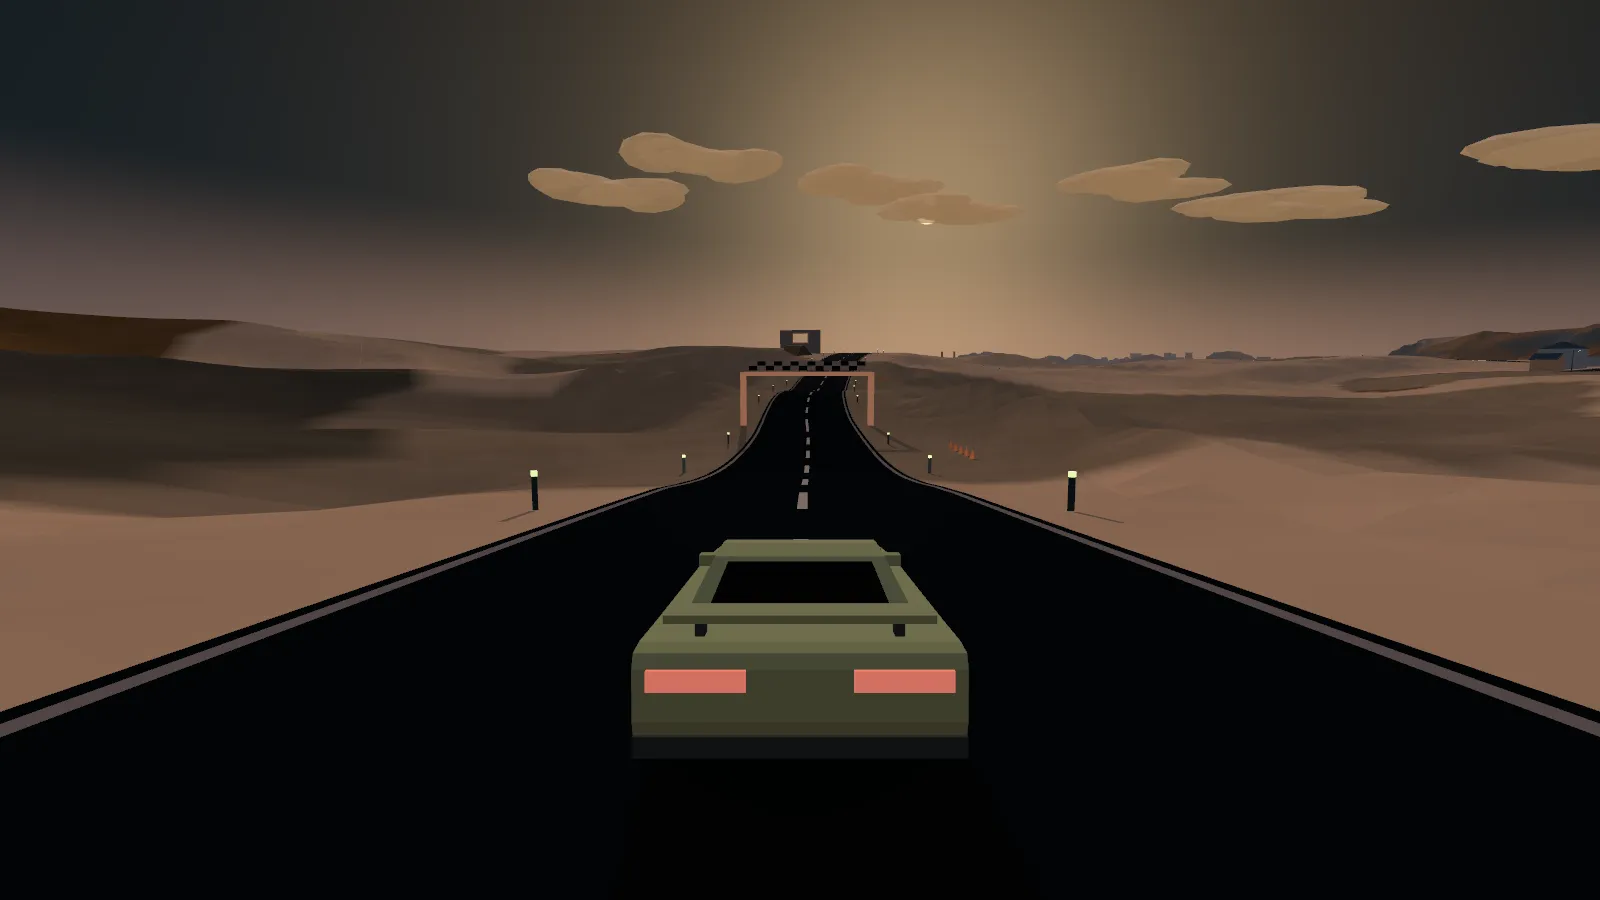
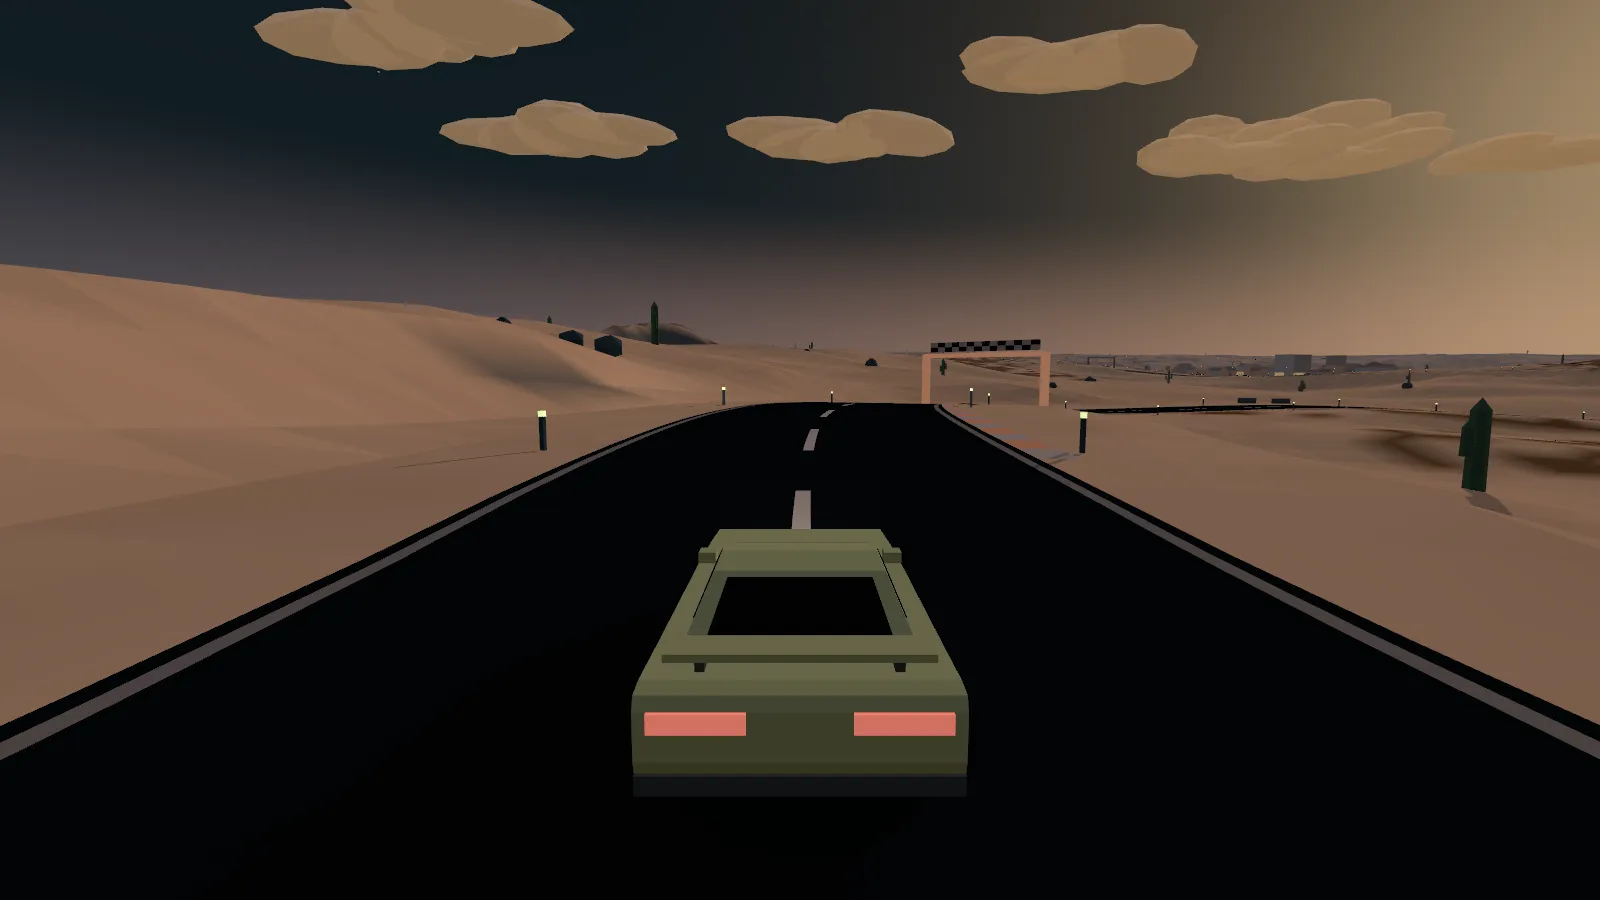
feat: desert props, dry outpost yards and frayed ground patches
- Recipe scatter rules strew cacti, boulders and hoodoo spires on open ground; landmark-mesh draws them in tree-crown green and rock tones, with circle solids
- Towns recipe `trees` knob: desert gardens and house yards get a water tank and boulders instead of trees
- Ground rules gain `soft`: desert hardpack frays into sand instead of a hard camouflage edge; fewer tones per biome
- Desert golden regenerated; island and sky goldens unchanged; menu images re-shot on seed 1

diff --git a/src/worldgen/recipe.ts b/src/worldgen/recipe.ts
@@ -1,5 +1,5 @@
 import type { Biome, TreeRule } from "./biomes";
-import { Ground, type ItemKind } from "./types";
+import { Ground, PropKind, type ItemKind } from "./types";
 
 export interface TerrainRecipe {
   /** Distance from the centre where the land meets `edge`, metres. */
@@ -16,11 +16,20 @@ export interface TerrainRecipe {
   mesas: { base: number; step: number; riser: number } | null;
 }
 
-/** A biome's ground row: `above` where its patch noise passes `cut`, else `below`. */
+/** A biome's ground row: `above` where its patch noise passes `cut`, else `below`; `soft` dithers the cut that wide. */
 export interface GroundRule {
   cut: number;
   above: Ground;
   below: Ground;
+  soft: number;
+}
+
+/** Props strewn over open ground: one at most per `spacing` cell, on `odds` of the cells in `biomes`. */
+export interface ScatterRule {
+  kind: PropKind;
+  spacing: number;
+  odds: number;
+  biomes: readonly Biome[];
 }
 
 export interface BiomeRecipe {
@@ -42,6 +51,8 @@ export interface RoadRecipe {
 export interface TownRecipe {
   min: number;
   max: number;
+  /** Gardens and house yards get trees; false gives them a water tank and boulders instead. */
+  trees: boolean;
   /** Street block size: min plus up to span, metres. */
   block: { min: number; span: number };
 }
@@ -56,6 +67,7 @@ export interface Recipe {
   road: RoadRecipe;
   towns: TownRecipe;
   landmarks: readonly Landmark[];
+  scatter: readonly ScatterRule[];
 }
 
 export const ISLAND: Recipe = {
@@ -69,18 +81,21 @@ export const ISLAND: Recipe = {
     },
     items: { coast: "log", meadow: "hay", forest: "log", upland: "rock" },
     ground: {
-      coast: { cut: 0.55, above: Ground.SAND, below: Ground.DUNE },
-      meadow: { cut: 0.55, above: Ground.DRY, below: Ground.GRASS },
-      forest: { cut: 0.6, above: Ground.GRASS, below: Ground.FOREST },
-      upland: { cut: 0.5, above: Ground.DRY, below: Ground.UPLAND },
+      coast: { cut: 0.55, above: Ground.SAND, below: Ground.DUNE, soft: 0 },
+      meadow: { cut: 0.55, above: Ground.DRY, below: Ground.GRASS, soft: 0 },
+      forest: { cut: 0.6, above: Ground.GRASS, below: Ground.FOREST, soft: 0 },
+      upland: { cut: 0.5, above: Ground.DRY, below: Ground.UPLAND, soft: 0 },
     },
   },
   road: { loop: { radius: 620, swing: 640, min: 380, max: 860 }, stacks: [4, 2], canyon: { outlet: 2 }, kickers: { road: 4, total: 12, big: 3 } },
-  towns: { min: 3, max: 6, block: { min: 45, span: 25 } },
+  towns: { min: 3, max: 6, trees: true, block: { min: 45, span: 25 } },
   landmarks: [Landmark.MAST, Landmark.LIGHTHOUSE, Landmark.TURBINES, Landmark.ARCH],
+  scatter: [],
 };
 
 const BARE = { start: 1, fill: 0, pine: 0, scrub: 0, extra: 0 };
+/** Dither width of the desert's patch edges, so hardpack frays into sand instead of a hard camouflage line. */
+const SOFT = 0.3;
 
 /** Sand, hardpack and terraced mesas inside a dune wall: low hills, no trees, a few outposts. */
 export const DESERT: Recipe = {
@@ -97,13 +112,18 @@ export const DESERT: Recipe = {
     rules: { coast: BARE, meadow: BARE, forest: BARE, upland: BARE },
     items: { coast: "rock", meadow: "rock", forest: null, upland: "rock" },
     ground: {
-      coast: { cut: 0.55, above: Ground.SAND, below: Ground.DUNE },
-      meadow: { cut: 0.45, above: Ground.DIRT, below: Ground.DUNE },
-      forest: { cut: 0.6, above: Ground.DUNE, below: Ground.SAND },
-      upland: { cut: 0.5, above: Ground.UPLAND, below: Ground.DIRT },
+      coast: { cut: 0.55, above: Ground.SAND, below: Ground.SAND, soft: 0 },
+      meadow: { cut: 0.55, above: Ground.DIRT, below: Ground.SAND, soft: SOFT },
+      forest: { cut: 0.6, above: Ground.DUNE, below: Ground.SAND, soft: SOFT },
+      upland: { cut: 0.5, above: Ground.UPLAND, below: Ground.DUNE, soft: SOFT },
     },
   },
   road: { loop: { radius: 650, swing: 500, min: 420, max: 850 }, stacks: [], canyon: { outlet: 24 }, kickers: { road: 4, total: 16, big: 4 } },
-  towns: { min: 1, max: 3, block: { min: 35, span: 15 } },
+  towns: { min: 1, max: 3, trees: false, block: { min: 35, span: 15 } },
   landmarks: [Landmark.ARCH, Landmark.MAST, Landmark.TURBINES],
+  scatter: [
+    { kind: PropKind.CACTUS, spacing: 30, odds: 0.08, biomes: ["meadow", "upland"] },
+    { kind: PropKind.BOULDER, spacing: 44, odds: 0.1, biomes: ["meadow", "forest", "upland"] },
+    { kind: PropKind.SPIRE, spacing: 130, odds: 0.18, biomes: ["upland"] },
+  ],
 };

diff --git a/src/worldgen/landmark-mesh.ts b/src/worldgen/landmark-mesh.ts
@@ -10,6 +10,8 @@ export interface LandmarkTones {
   cap: Rgb;
   stone: Rgb;
   stone_shade: Rgb;
+  plant: Rgb;
+  plant_shade: Rgb;
 }
 
 const MAST_BANDS = 6;
@@ -135,6 +137,41 @@ function arch(out: Builder, prop: Prop, heights: Float32Array, t: LandmarkTones)
   slab(out, -reach * 0.55, reach * 0.4, ARCH_LEG * 0.8, top, top + 1.1, t.stone_shade, t.stone);
 }
 
+// Drawn to SCATTER_SHAPE (scatter.ts) at scale 1: a saguaro of tree-crown green with one or two arms.
+function cactus(out: Builder, s: number, roll: number, t: LandmarkTones) {
+  const limb = (cx: number, y0: number, y1: number, r: number) => {
+    prism(out, 6, r, r * 0.9, y0, y1, t.plant, 0, t.plant_shade, cx, 0);
+    prism(out, 6, r * 0.9, 0, y1, y1 + r * 1.4, t.plant, 0, t.plant_shade, cx, 0);
+  };
+  limb(0, -0.5, 3.9 * s, 0.45 * s);
+  slab(out, 0.3 * s, 0.95 * s, 0.26 * s, 1.7 * s, 2.2 * s, t.plant, t.plant_shade);
+  limb(0.95 * s, 1.7 * s, 3.1 * s, 0.3 * s);
+  if (roll < 0.5) return;
+  slab(out, -0.95 * s, -0.3 * s, 0.24 * s, 1.2 * s, 1.65 * s, t.plant, t.plant_shade);
+  limb(-0.95 * s, 1.2 * s, 2.4 * s, 0.27 * s);
+}
+
+function boulder(out: Builder, s: number, roll: number, t: LandmarkTones) {
+  prism(out, 6, 1.6 * s, 1.05 * s, -0.4, 1.0 * s, t.stone, roll * Math.PI, t.stone_shade);
+  prism(out, 5, 1.05 * s, 0.35 * s, 1.0 * s, 1.5 * s, t.stone_shade, roll * Math.PI, t.stone);
+  prism(out, 5, 0.7 * s, 0.3 * s, -0.3, 0.8 * s, t.stone_shade, roll * 5, t.stone, 1.5 * s, 0.4 * s);
+}
+
+// A hoodoo: a tapering column of alternating stone bands under a wider cap rock.
+function spire(out: Builder, s: number, roll: number, t: LandmarkTones) {
+  const phase = roll * Math.PI;
+  prism(out, 6, 2.4 * s, 1.7 * s, -1, 5 * s, t.stone, phase, t.stone_shade);
+  prism(out, 6, 1.7 * s, 1.1 * s, 5 * s, 10 * s, t.stone_shade, phase, t.stone);
+  prism(out, 5, 1.1 * s, 0.8 * s, 10 * s, 11.6 * s, t.stone, phase);
+  prism(out, 6, 1.7 * s, 1.4 * s, 11.6 * s, 13 * s, t.stone_shade, phase + 0.4, t.stone);
+}
+
+function tank(out: Builder, t: LandmarkTones) {
+  for (const [cx, cz] of [[-1, -1], [1, -1], [-1, 1], [1, 1]]) prism(out, 4, 0.14, 0.14, -0.5, 3.3, t.cap, Math.PI / 4, undefined, cx, cz);
+  prism(out, 8, 1.8, 1.8, 3.2, 5.6, t.pale, Math.PI / 8, t.band);
+  prism(out, 8, 1.95, 0, 5.6, 6.4, t.band, Math.PI / 8);
+}
+
 export function landmark_mesh(out: Builder, prop: Prop, heights: Float32Array, tones: LandmarkTones) {
   const [fx, fz] = forward(prop);
   out.at({ x: prop.x, y: prop.y, z: prop.z, fx, fz });
@@ -142,4 +179,8 @@ export function landmark_mesh(out: Builder, prop: Prop, heights: Float32Array, t
   else if (prop.kind === PropKind.LIGHTHOUSE) lighthouse(out, tones);
   else if (prop.kind === PropKind.TURBINE) turbine(out, tones);
   else if (prop.kind === PropKind.ARCH) arch(out, prop, heights, tones);
+  else if (prop.kind === PropKind.CACTUS) cactus(out, prop.scale, prop.angle / (Math.PI * 2), tones);
+  else if (prop.kind === PropKind.BOULDER) boulder(out, prop.scale, prop.angle, tones);
+  else if (prop.kind === PropKind.SPIRE) spire(out, prop.scale, prop.angle, tones);
+  else if (prop.kind === PropKind.TANK) tank(out, tones);
 }

diff --git a/src/worldgen/scatter.ts b/src/worldgen/scatter.ts
@@ -1,0 +1,54 @@
+import { biome_at, type BiomeCuts } from "./biomes";
+import { sample, up } from "./field";
+import { hash } from "./noise";
+import type { ScatterRule } from "./recipe";
+import { DIRT, ORIGIN, ROAD_HALF, PropKind, type Prop, type Solid, type Terrain } from "./types";
+
+/** Footprint radius and height of each strewn prop at scale 1, metres; the mesh in landmark-mesh.ts is drawn to them. */
+export const SCATTER_SHAPE: Partial<Record<PropKind, { radius: number; height: number }>> = {
+  [PropKind.CACTUS]: { radius: 0.45, height: 4.6 },
+  [PropKind.BOULDER]: { radius: 1.6, height: 1.5 },
+  [PropKind.SPIRE]: { radius: 2.4, height: 13 },
+  [PropKind.TANK]: { radius: 1.8, height: 6.4 },
+};
+
+const ROAD_CLEAR = ROAD_HALF + 8;
+const FLAT = 0.85;
+const SCALE = [0.75, 1.3];
+
+export function prop_solid(prop: Prop): Solid {
+  const shape = SCATTER_SHAPE[prop.kind] ?? { radius: 1, height: 1 };
+  return { kind: "circle", x: prop.x, y: prop.y, z: prop.z, radius: shape.radius * prop.scale, height: shape.height * prop.scale };
+}
+
+export interface Scattered {
+  props: Prop[];
+  solids: Solid[];
+}
+
+/** `free` rules out ground taken by lots, towns, jumps and landmarks, as for trees. */
+export function scatter(cuts: BiomeCuts, land: Terrain, rules: readonly ScatterRule[], free: (x: number, z: number) => boolean): Scattered {
+  const { heights, road_dist, surface } = land;
+  const out: Scattered = { props: [], solids: [] };
+  rules.forEach((rule, r) => {
+    const seed = cuts.seed + 300 + r * 8;
+    const limit = -ORIGIN - rule.spacing;
+    for (let z = ORIGIN + rule.spacing; z < limit; z += rule.spacing)
+      for (let x = ORIGIN + rule.spacing; x < limit; x += rule.spacing) {
+        if (hash(x, z, seed) >= rule.odds) continue;
+        const px = x + (hash(x, z, seed + 1) - 0.5) * rule.spacing * 0.8;
+        const pz = z + (hash(x, z, seed + 2) - 0.5) * rule.spacing * 0.8;
+        const y = sample(heights, px, pz);
+        if (!rule.biomes.includes(biome_at(cuts, px, pz, y))) continue;
+        if (sample(road_dist, px, pz) < ROAD_CLEAR || up(heights, px, pz) < FLAT || !free(px, pz)) continue;
+        const i = Math.round((px - ORIGIN) / land.cell);
+        const j = Math.round((pz - ORIGIN) / land.cell);
+        if (surface[j * (land.n + 1) + i] === DIRT) continue;
+        const roll = hash(x, z, seed + 3);
+        const prop: Prop = { x: px, y, z: pz, angle: hash(x, z, seed + 4) * Math.PI * 2, kind: rule.kind, scale: SCALE[0] + roll * (SCALE[1] - SCALE[0]) };
+        out.props.push(prop);
+        out.solids.push(prop_solid(prop));
+      }
+  });
+  return out;
+}

diff --git a/src/worldgen/lots.ts b/src/worldgen/lots.ts
@@ -1,5 +1,7 @@
 import { cell_range, sample, vertex } from "./field";
 import { hash, length } from "./noise";
+import type { TownRecipe } from "./recipe";
+import { prop_solid } from "./scatter";
 import type { Stamp } from "./stamp";
 import {
   CELL,
@@ -85,6 +87,7 @@ export class Lots {
     private readonly seed: number,
     private readonly terrain: Terrain,
     private readonly stamp: Stamp,
+    private readonly shape: TownRecipe,
   ) {
     this.occupied = new Uint8Array(terrain.heights.length);
   }
@@ -181,12 +184,20 @@ export class Lots {
     this.out.solids.push({ kind: "circle", x, y, z, radius: TREE_RADIUS * scale, height: TREE_HEIGHT * scale });
   }
 
+  // A dry yard: the first spot holds the water tank, the rest boulders.
+  private yard(x: number, z: number, roll: number, first: boolean) {
+    const prop: Prop = { x, y: sample(this.terrain.heights, x, z), z, angle: roll * Math.PI * 2, kind: first ? PropKind.TANK : PropKind.BOULDER, scale: first ? 1 : 0.5 + roll * 0.4 };
+    this.out.props.push(prop);
+    this.out.solids.push(prop_solid(prop));
+  }
+
   private garden(lot: Lot, count: number) {
     for (let i = 0; i < count; i++) {
       const lx = (hash(lot.id, i, this.seed + 71) - 0.5) * (lot.w - 5);
       const lz = (hash(lot.id, i, this.seed + 72) - 0.5) * (lot.d - 5);
       const [x, z] = local_to_world(lot, lx, lz);
-      this.tree(x, z, hash(lot.id, i, this.seed + 73));
+      if (this.shape.trees) this.tree(x, z, hash(lot.id, i, this.seed + 73));
+      else this.yard(x, z, hash(lot.id, i, this.seed + 73), i === 0);
     }
   }
 
@@ -219,7 +230,8 @@ export class Lots {
     const yard = front - hd + lot.d / 2;
     if (!shop && yard > 5 && hash(lot.id, 1, this.seed + 74) < 0.6) {
       const [tx, tz] = local_to_world(lot, (hash(lot.id, 2, this.seed + 74) - 0.5) * (lot.w - 4), -lot.d / 2 + yard / 2);
-      this.tree(tx, tz, hash(lot.id, 3, this.seed + 74));
+      if (this.shape.trees) this.tree(tx, tz, hash(lot.id, 3, this.seed + 74));
+      else this.yard(tx, tz, hash(lot.id, 3, this.seed + 74), false);
     }
   }
 

diff --git a/src/worldgen/index.ts b/src/worldgen/index.ts
@@ -11,6 +11,7 @@ import { loop_road } from "./path";
 import { circuit_route, offroad_routes, reverse_circuit, street_routes } from "./routes";
 import { join_candidates, MIN_RADIUS, Router, SHAPE_GRADE, spur_need, spur_points, tightest, type Way } from "./route";
 import type { Path } from "./path";
+import { scatter } from "./scatter";
 import { Stamp } from "./stamp";
 import { road_junctions } from "./road-layers";
 import { guard_rails, inside } from "./switchback";
@@ -153,7 +154,7 @@ export function generate(seed: number, recipe: Recipe = ISLAND, kind: WorldKind 
   stamp.blend();
   lap("stamp");
 
-  const lots = new Lots(seed, land, stamp);
+  const lots = new Lots(seed, land, stamp, recipe.towns);
   for (const edge of edges) {
     if (edge.kind !== "street") continue;
     const town = towns.find((t) => length(t.x - edge.points[0].x, t.z - edge.points[0].z) <= t.radius + 1);
@@ -217,9 +218,13 @@ export function generate(seed: number, recipe: Recipe = ISLAND, kind: WorldKind 
   const routes = reverse ? [loop, ...streets.routes, ...offroad, reverse] : [loop, ...streets.routes, ...offroad];
   lap("routes");
 
-  const planted = plant(cuts, land, (x, z) => !lots.occupied[vertex(Math.round((x - ORIGIN) / CELL), Math.round((z - ORIGIN) / CELL))] && !towns.some((t) => length(t.x - x, t.z - z) < t.radius) && !jumps.blocks(x, z, 2) && !marks.blocks(x, z, 2));
+  const free = (x: number, z: number) => !lots.occupied[vertex(Math.round((x - ORIGIN) / CELL), Math.round((z - ORIGIN) / CELL))] && !towns.some((t) => length(t.x - x, t.z - z) < t.radius) && !jumps.blocks(x, z, 2) && !marks.blocks(x, z, 2);
+  const planted = plant(cuts, land, free);
   const trees: Tree[] = [...lots.out.trees, ...planted.trees];
   solids.push(...planted.solids);
+  const strewn = scatter(cuts, land, recipe.scatter, free);
+  props.push(...strewn.props);
+  solids.push(...strewn.solids);
   stamp.harden(cuts);
   lap("props");
 

diff --git a/src/worldgen/types.ts b/src/worldgen/types.ts
@@ -151,7 +151,17 @@ export interface Building {
 export const Roof = { FLAT: "flat", GABLE: "gable", CROSS: "cross", HIP: "hip" } as const;
 export type Roof = (typeof Roof)[keyof typeof Roof];
 
-export const PropKind = { STREET_LIGHT: "street_light", MAST: "mast", LIGHTHOUSE: "lighthouse", TURBINE: "turbine", ARCH: "arch" } as const;
+export const PropKind = {
+  STREET_LIGHT: "street_light",
+  MAST: "mast",
+  LIGHTHOUSE: "lighthouse",
+  TURBINE: "turbine",
+  ARCH: "arch",
+  CACTUS: "cactus",
+  BOULDER: "boulder",
+  SPIRE: "spire",
+  TANK: "tank",
+} as const;
 export type PropKind = (typeof PropKind)[keyof typeof PropKind];
 
 export interface Prop {
@@ -160,7 +170,7 @@ export interface Prop {
   z: number;
   angle: number;
   kind: PropKind;
-  /** Street lights and towers 1; the arch spans the road with this half distance between its leg centres, at `y` its road height. */
+  /** Street lights and towers 1; scattered props their size; the arch spans the road with this half distance between its leg centres, at `y` its road height. */
   scale: number;
 }
 

diff --git a/src/render/scene.ts b/src/render/scene.ts
@@ -54,7 +54,7 @@ export function mesh_tones(): MeshTones {
     walls: [tones.wall, tones.wall_warm, tones.wall_cool].map(linear),
     roofs: [tones.roof, tones.roof_slate].map(linear),
     roof_flat: linear(tones.roof_flat),
-    landmark: { pale: linear(tones.post), band: linear(tones.roof), cap: linear(tones.trim), stone: linear(tones.rock), stone_shade: linear(lighten(tones.rock, -STONE_SHADE)) },
+    landmark: { pale: linear(tones.post), band: linear(tones.roof), cap: linear(tones.trim), stone: linear(tones.rock), stone_shade: linear(lighten(tones.rock, -STONE_SHADE)), plant: linear(tones.leaf), plant_shade: linear(tones.leaf_dark) },
     deck: { deck: linear(tones.deck), side: linear(tones.deck_side), rail: linear(tones.deck), joint: linear(tones.joint), pad: linear(tones.pad), chevron: linear(tones.chevron) },
   };
 }

diff --git a/src/worldgen/biomes.ts b/src/worldgen/biomes.ts
@@ -96,7 +96,9 @@ export function tree_kind(cuts: BiomeCuts, biome: Biome, x: number, z: number, k
 
 export function ground_at(cuts: BiomeCuts, x: number, z: number, y: number): Ground {
   const rule = cuts.recipe.ground[biome_at(cuts, x, z, y)];
-  return fbm(x / PATCH_SCALE, z / PATCH_SCALE, cuts.seed + PATCH_SEED, 3) > rule.cut ? rule.above : rule.below;
+  const patch = fbm(x / PATCH_SCALE, z / PATCH_SCALE, cuts.seed + PATCH_SEED, 3);
+  const fray = rule.soft ? (hash(x, z, cuts.seed + PATCH_SEED + 1) - 0.5) * rule.soft : 0;
+  return patch + fray > rule.cut ? rule.above : rule.below;
 }
 
 /** Marks the recipe's hardpack, its DIRT ground rows, firm in the surface grid, so grip and colour agree. */

diff --git a/src/worldgen/worker.test.ts b/src/worldgen/worker.test.ts
@@ -26,7 +26,7 @@ const TONES: MeshTones = {
     [0.2, 0.3, 0.4],
   ],
   roof_flat: [0.3, 0.3, 0.3],
-  landmark: { pale: [0.85, 0.85, 0.8], band: [0.6, 0.2, 0.2], cap: [0.2, 0.2, 0.25], stone: [0.5, 0.45, 0.4], stone_shade: [0.4, 0.36, 0.32] },
+  landmark: { pale: [0.85, 0.85, 0.8], band: [0.6, 0.2, 0.2], cap: [0.2, 0.2, 0.25], stone: [0.5, 0.45, 0.4], stone_shade: [0.4, 0.36, 0.32], plant: [0.3, 0.45, 0.3], plant_shade: [0.24, 0.36, 0.24] },
   deck: { deck: [0.2, 0.5, 0.8], side: [0.1, 0.2, 0.3], rail: [0.9, 0.9, 0.9], joint: [0.05, 0.05, 0.05], pad: [0.4, 0.6, 0.9], chevron: [0.1, 0.3, 0.6] },
 };
 

diff --git a/scripts/proof/tones.ts b/scripts/proof/tones.ts
@@ -24,7 +24,7 @@ export const MESH_TONES: MeshTones = {
     [0.3, 0.8, 0.4],
   ],
   roof_flat: [0.5, 0.5, 0.1],
-  landmark: { pale: [0.11, 0, 0], band: [0.12, 0, 0], cap: [0.13, 0, 0], stone: [0.14, 0, 0], stone_shade: [0.15, 0, 0] },
+  landmark: { pale: [0.11, 0, 0], band: [0.12, 0, 0], cap: [0.13, 0, 0], stone: [0.14, 0, 0], stone_shade: [0.15, 0, 0], plant: [0.16, 0, 0], plant_shade: [0.17, 0, 0] },
   deck: { deck: [0.21, 0, 0], side: [0.22, 0, 0], rail: [0.23, 0, 0], joint: [0.24, 0, 0], pad: [0.25, 0, 0], chevron: [0.26, 0, 0] },
 };
 
